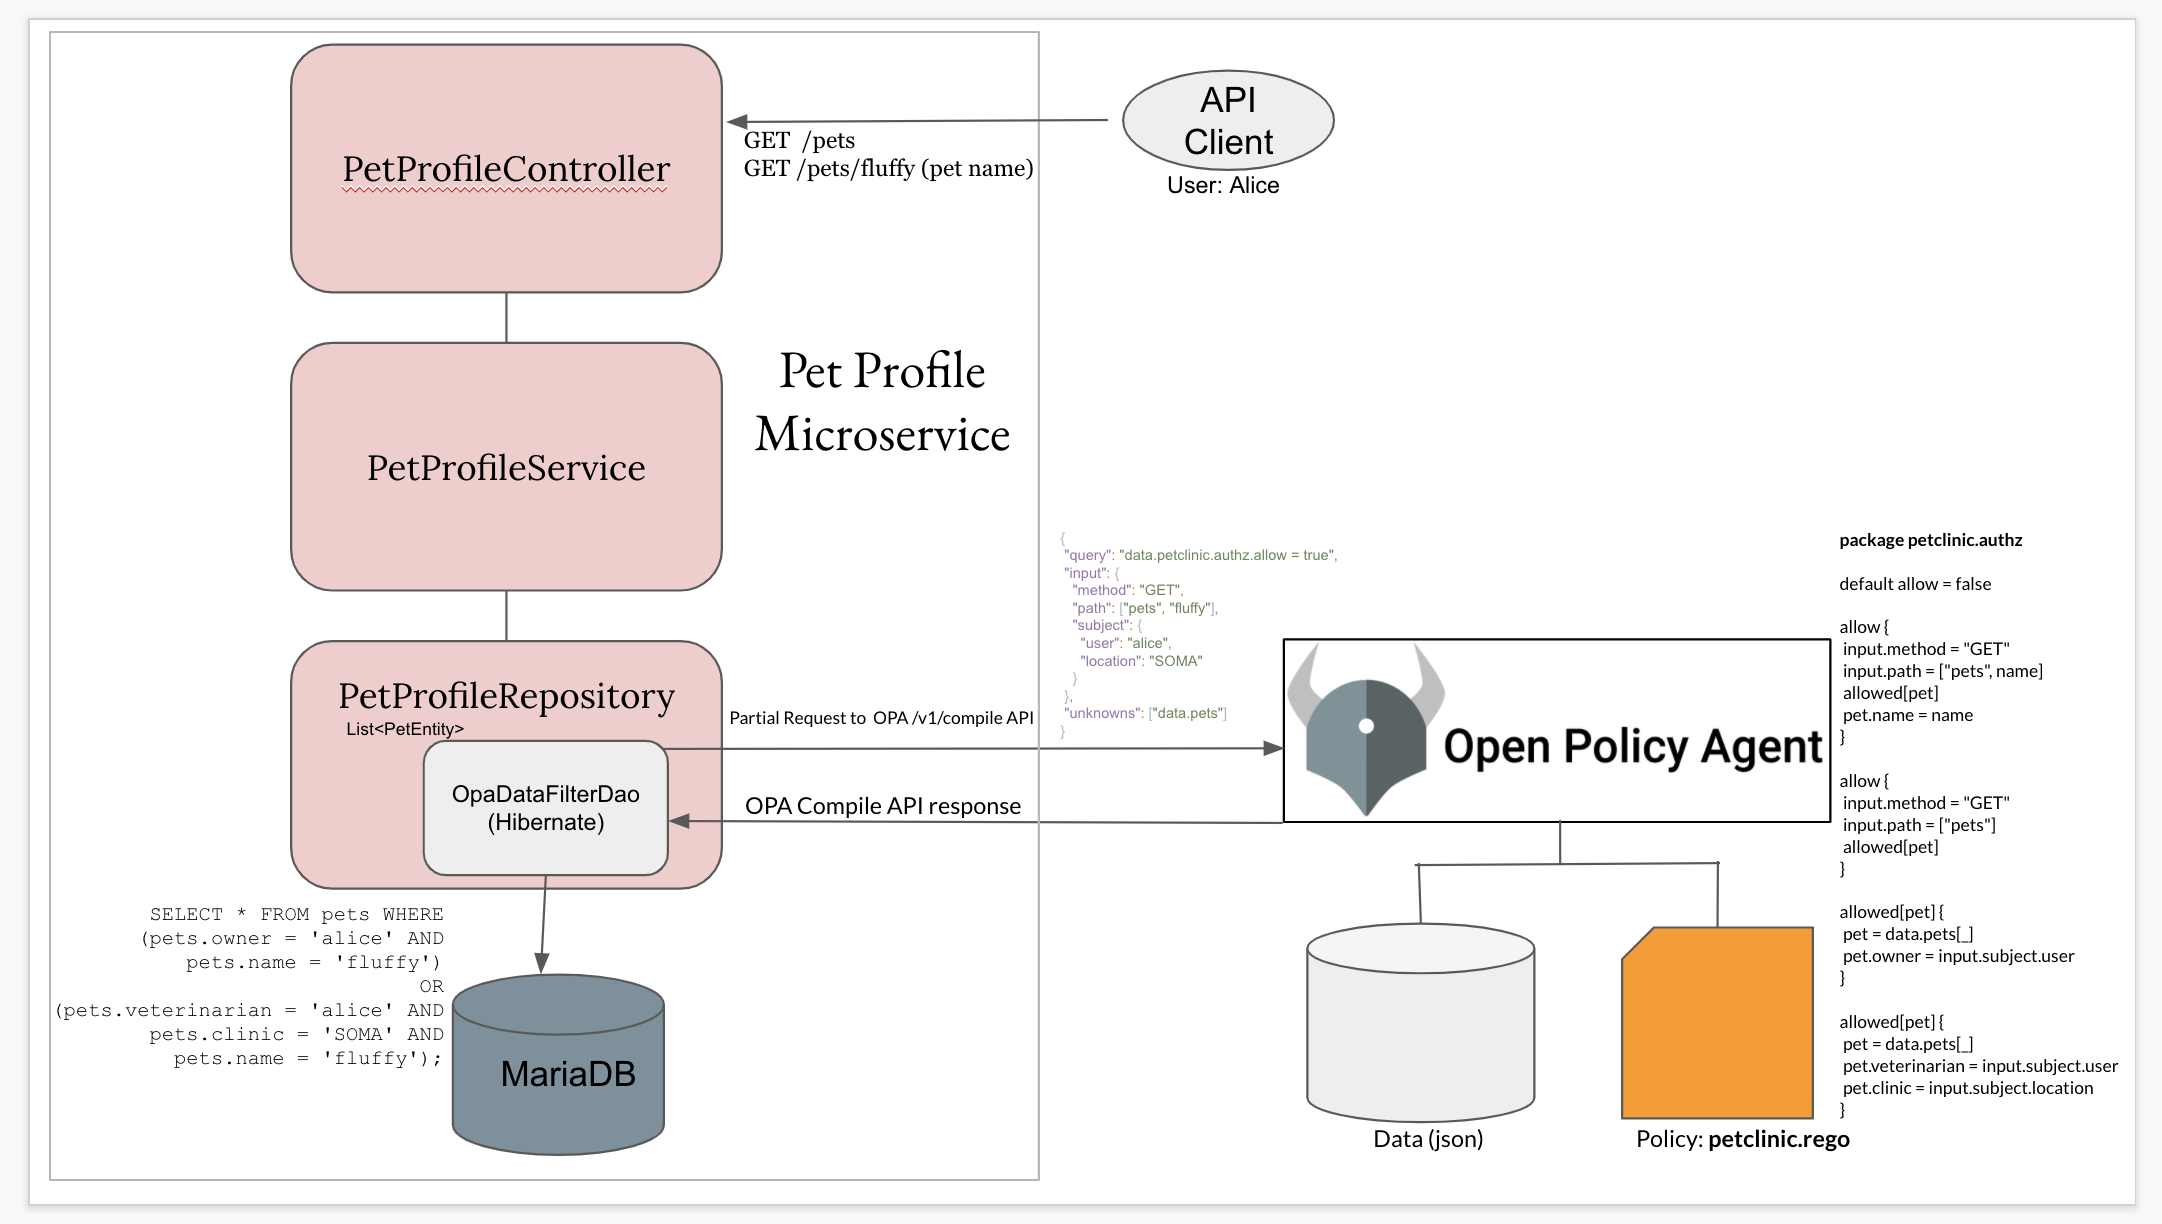
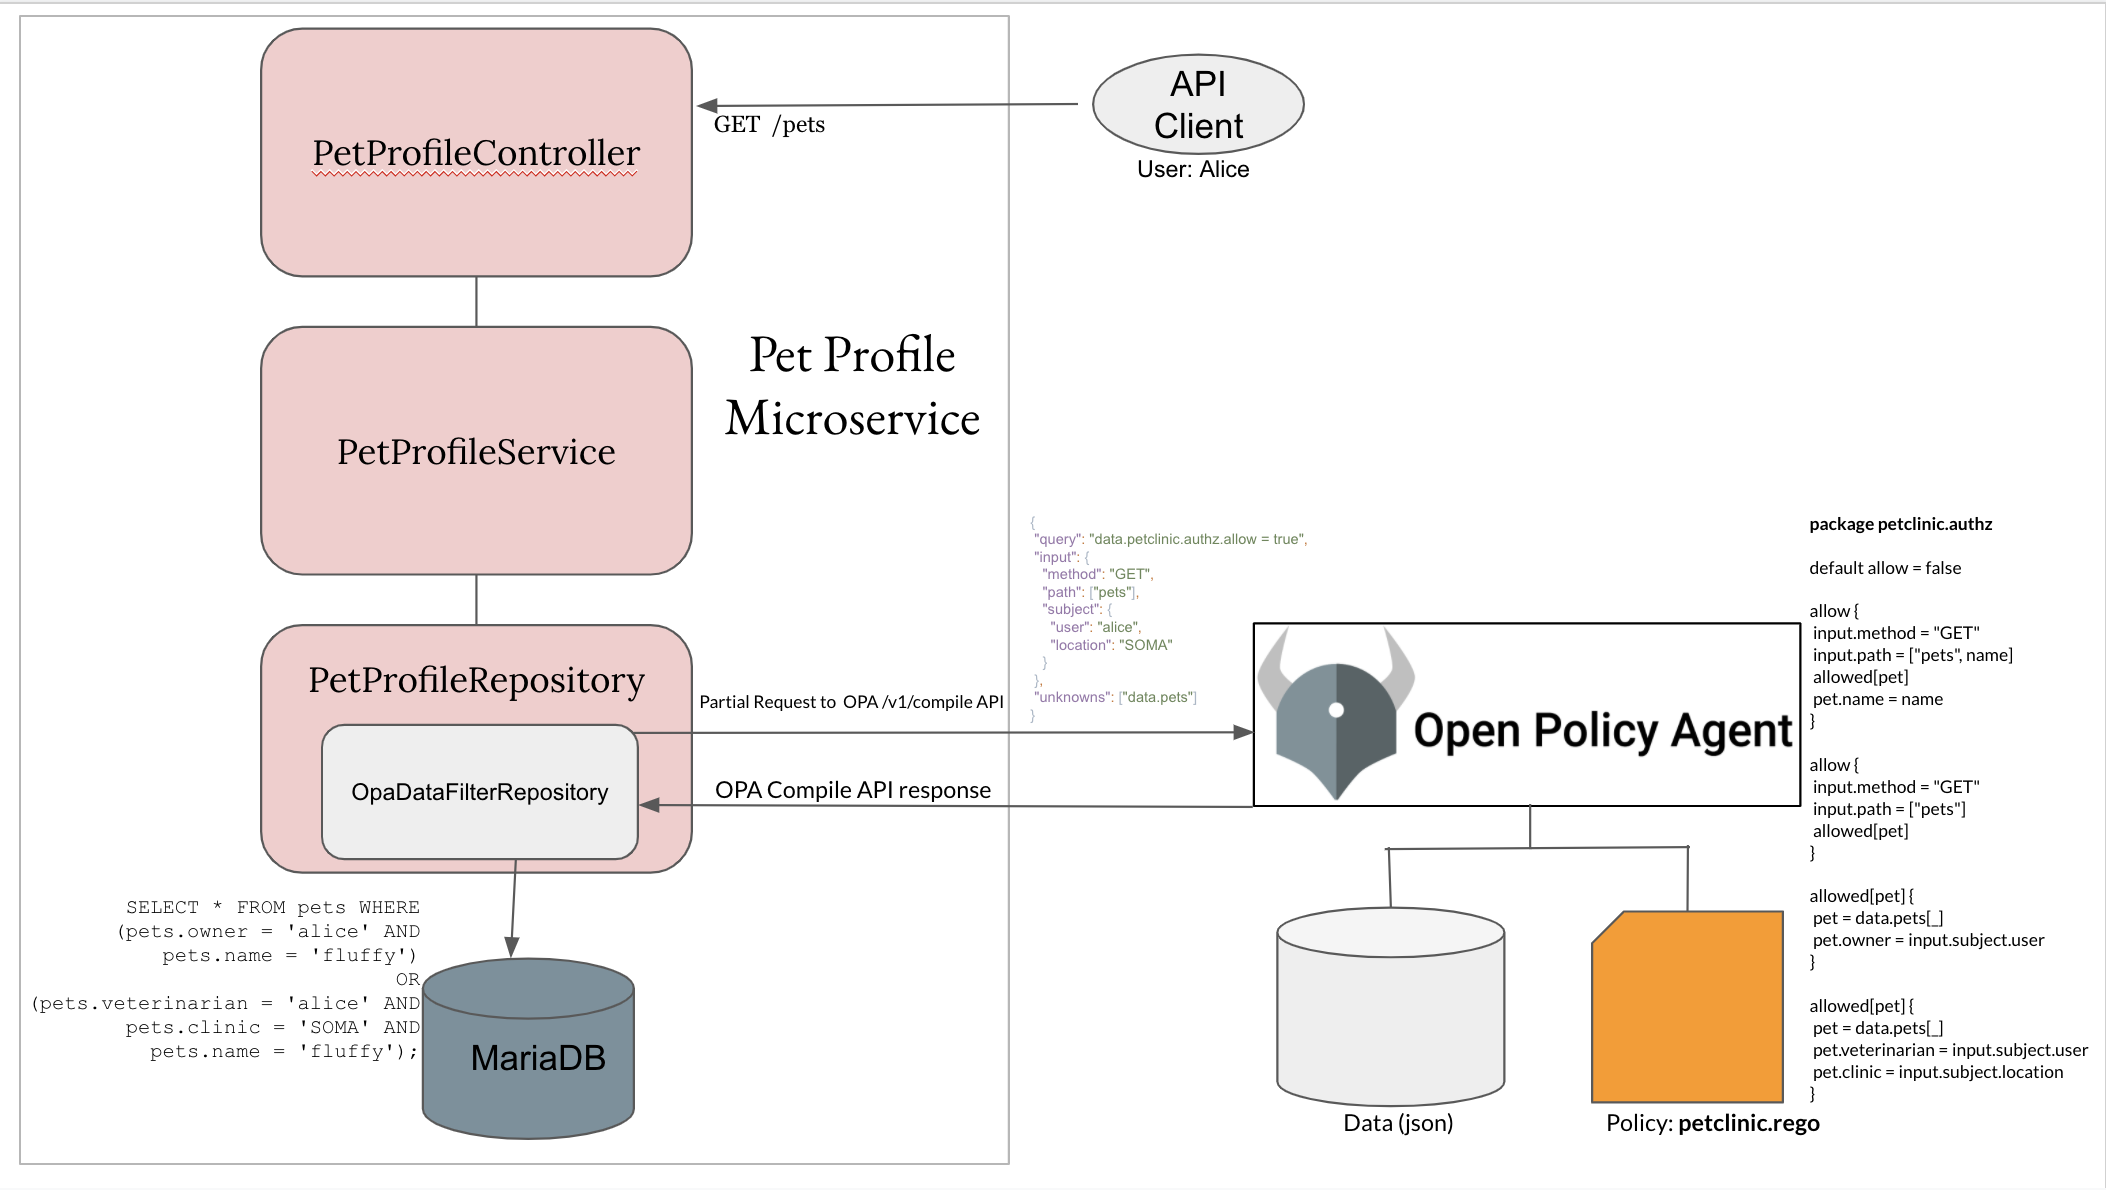
Updated README and diagram

Changed region(s): [[0.0, 0.0, 1.0, 0.995], [0.5864, 0.7462, 0.7099, 0.9017]]

diff --git a/README.md b/README.md
@@ -68,7 +68,7 @@ curl -i --user bob:password -H "X-ORG-HEADER: SOMA" http://localhost:8081/pets
 The following dependencies were added in the project to enforce authorization at the Spring Data repository.
 ```groovy
 implementation 'org.springframework.boot:spring-boot-starter-data-jpa'
-implementation group:'com.github.jferrater', name: 'opa-data-filter-spring-boot-starter', version: '0.4.1'
+implementation group:'com.github.jferrater', name: 'opa-data-filter-spring-boot-starter', version: '0.4.2'
 ```
 #### Configuration
 The configuration is defined in the ``classpath:application-mariadb.yml``. This is the configuration used when running command ``./gradlew -Dspring.profiles.active=mariadb bootRun``
